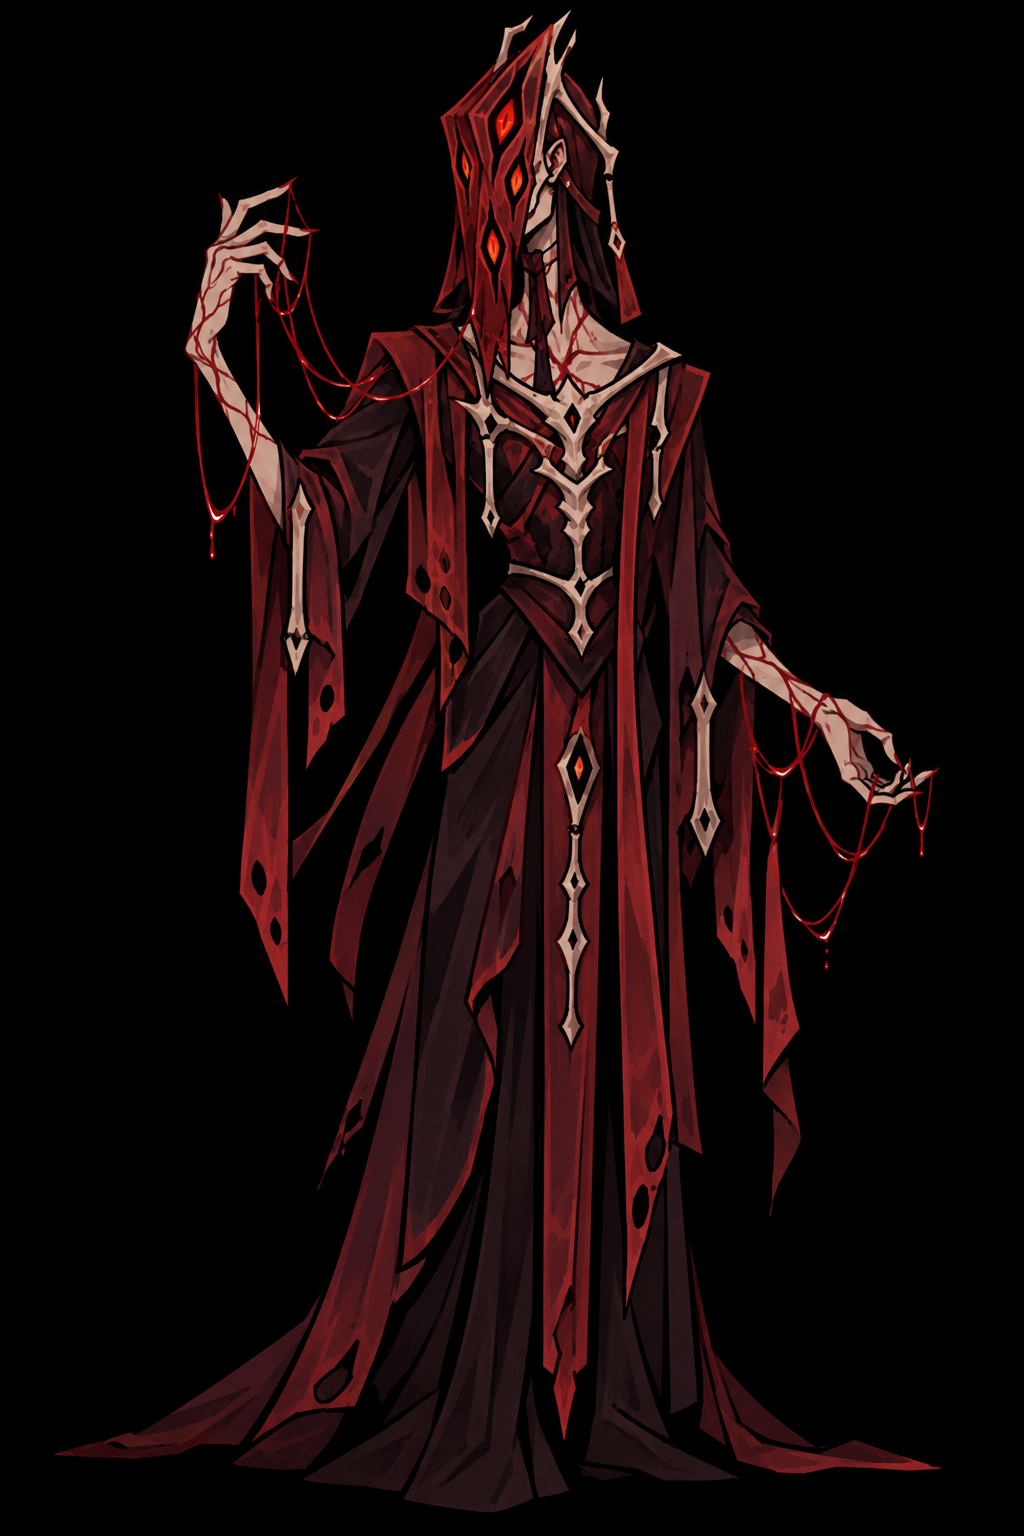
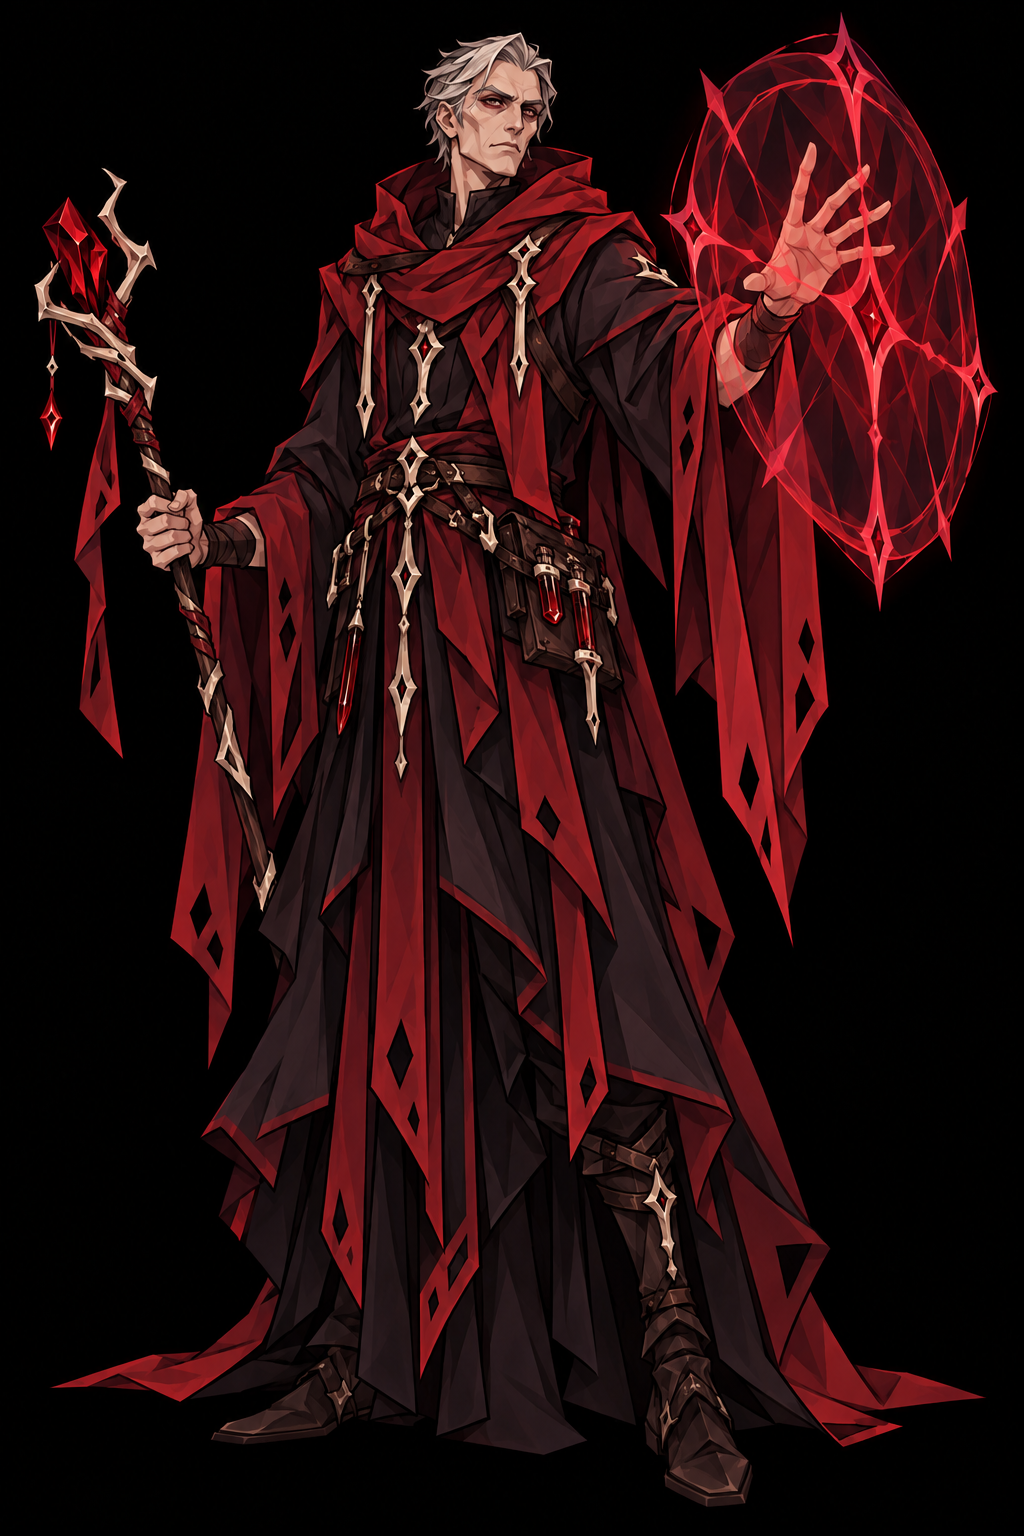
Restrict Ortes libraries, migrate folders and audit blood magic

diff --git a/scripts/blood-magic.js b/scripts/blood-magic.js
@@ -67,7 +67,7 @@ async function regain(actor,number=1){
 }
 async function steal(caster,target,amount=1,heal=0){
  if(!owned(caster)||!owned(target))throw Error("Для похищения ведущий должен иметь доступ к обоим актёрам");
- if(target.statuses.has("dead")||target.system.details?.type?.value==="undead")return 0;
+ if(target.statuses.has("dead")||["undead","construct"].includes(target.system.details?.type?.value))return 0;
  const pools=hdPools(target);
  let remaining=amount,stolen=0;
  for(const p of pools){const n=Math.min(remaining,Math.max(0,p.maximum-p.spent));if(n){await p.doc.update({[p.path]:p.spent+n});stolen+=n;remaining-=n;}}
@@ -179,7 +179,16 @@ function isBleeding(token){
  return Boolean(token?.actor?.effects?.some(e=>!e.disabled && e.getFlag?.(MOD,"bleeding") &&
    (!e.getFlag(MOD,"tokenUuid")||e.getFlag(MOD,"tokenUuid")===token.uuid)));
 }
-async function bloodAttackLifesteal(chat){
+const lifestealQueues = new Map();
+function bloodAttackLifesteal(chat){
+ const key=chat.getAssociatedActivity?.()?.item?.actor?.uuid;
+ if(!key)return Promise.resolve();
+ const result=(lifestealQueues.get(key)??Promise.resolve()).catch(()=>{}).then(()=>performBloodAttackLifesteal(chat));
+ lifestealQueues.set(key,result);
+ const clean=()=>{if(lifestealQueues.get(key)===result)lifestealQueues.delete(key);};
+ result.then(clean,clean);return result;
+}
+async function performBloodAttackLifesteal(chat){
  if(!game.user?.isGM || game.users?.activeGM?.id!==game.user.id || chat.type!=="attack")return;
  const activity=chat.getAssociatedActivity?.();
  if(activity?.type!=="attack")return;
@@ -196,6 +205,7 @@ async function bloodAttackLifesteal(chat){
  for(const t of targets.filter(t=>!t.isMiss)){
    const token=await fromUuid(t.token);
    if(!isBleeding(token))continue;
+   if(token.actor.statuses?.has('dead') || ['undead','construct'].includes(token.actor.system.details?.type?.value))continue;
    // Prevent double processing when chat hooks fire again.
    if(caster.getFlag(MOD,"lifestealTurn")===turnKey)return;
    await caster.setFlag(MOD,"lifestealTurn",turnKey);
@@ -218,16 +228,16 @@ async function bloodAttackLifesteal(chat){
 }
 
 async function autoBloodSaves(chat) {
- if(!game.user?.isGM || game.users?.activeGM?.id!==game.user.id)return;
+ if(!game.user?.isGM || game.users?.activeGM?.id!==game.user.id || chat.type!=="usage")return;
  const activity=chat.getAssociatedActivity?.();
  if(activity?.item?.getFlag?.(MOD,"spellKey"))return;
  if(activity?.type!=="save" || !activity.item?.getFlag?.(MOD,"bloodMagicAbility"))return;
- const targets=chat.system?.evaluatedTargets ?? [];
+ const targets=chat.system?.targets ?? [];
  if(!targets.length)return;
- const ability=activity.save?.ability?.[0];
+ const ability=Array.from(activity.save?.ability ?? [])[0];
  if(!ability)return;
  const caster=activity.item.actor;
- const dc=8 + 2*Number(caster?.system?.attributes?.prof??3)+Number(caster?.system?.abilities?.con?.mod??0);
+ const dc=Number(activity.save?.dc?.value ?? (8 + 2*Number(caster?.system?.attributes?.prof??3)+Number(caster?.system?.abilities?.con?.mod??0)));
  for(const target of targets){
    const token=await fromUuid(target.token);
    if(!token?.actor)continue;
@@ -237,7 +247,7 @@ async function autoBloodSaves(chat) {
    try {
      const result=await token.actor.rollSavingThrow(
        {ability,target:dc},{configure:false},
-       {data:{speaker:ChatMessage.getSpeaker({token})}}
+       {data:{speaker:ChatMessage.getSpeaker({token}),system:{...activity.messageSources,origin:chat.id},whisper:[...(chat.whisper??[])],blind:chat.blind}}
      );
      const total=result?.[0]?.total;
      await chat.setFlag(MOD,"bloodSaveResults."+key,{done:true,total});

diff --git a/RELEASE_NOTES.md b/RELEASE_NOTES.md
@@ -1,5 +1,13 @@
-# 4.1.1 — Портреты жителей Суйгу
+# 4.1.2 — Библиотеки ведущего и проверка магии крови
 
-Каждый из восьми жителей Суйгу получил отдельный арт с деталями своей профессии. Портреты назначены листам и изображениям прототипов токенов.
+Все семь компендиумов модуля закрыты для обычных и доверенных игроков. При входе активного ведущего права обновляются также в существующем мире; права помощника и ведущего сохраняются. Мировые копии предметов и заклинаний на листах игроков остаются доступны по своим собственным правам.
 
-Обновлённые NPC находятся в «Суйгу | Жители». Для существующих мировых копий импортируйте свежих NPC или выберите изображения из modules/bagrovoe-bleeding/assets/portraits/suigu/. Боевые данные не изменены.
+Однократная миграция раскладывает библиотеки внутри «Мир Ортес», переносит старую папку «Багровое Причастие», если она содержит только библиотеки модуля. Посторонние библиотеки и их настройки не изменяются. Папки с чужим содержимым сохраняются.
+
+Маг крови [Бафф-Дебафф] получил новый отдельный арт и прозрачный портретный токен. Файлы заменены по прежним путям, поэтому обычные мировые копии также увидят новые изображения после обновления кеша.
+
+Проверены 14 багровых NPC, 18 заклинаний, все семь нативных компендиумов и пути к ресурсам. Исправлено чтение Set характеристик спасброска у старых кровавых способностей; броски связываются с исходной карточкой. Кровавое поглощение защищено от повторного одновременного срабатывания и не срабатывает на мёртвых, нежити и конструктах.
+
+Похищение одной доступной Кости Хитов поддерживает классовые кости персонажей и счётчик NPC. Условие: заражённый маг ПО 7+, попадание атакой с признаком магии крови по уже кровоточащей живой цели, провал спасброска Телосложения. Один раз за ход. Маги из комплекта имеют ПО 6, а атаки Древнего не включают эту возможность. Новые способности похищения никому не добавлены, баланс не менялся.
+
+124 автоматические проверки пройдены, включая промах, успешный спасбросок, исчерпанные кости и повторные вызовы. Проверка в запущенном игровом мире Foundry не проводилась; перемещение, выбор целей, применение обычного урона и описательные способности используют стандартный игровой процесс ведущего.

diff --git a/CHANGELOG.md b/CHANGELOG.md
@@ -1,3 +1,17 @@
+# 4.1.2 — Библиотеки ведущего и проверка магии крови
+
+Все семь компендиумов модуля закрыты для обычных и доверенных игроков. При входе активного ведущего права обновляются также в существующем мире; права помощника и ведущего сохраняются. Мировые копии предметов и заклинаний на листах игроков остаются доступны по своим собственным правам.
+
+Однократная миграция раскладывает библиотеки внутри «Мир Ортес», переносит старую папку «Багровое Причастие», если она содержит только библиотеки модуля. Посторонние библиотеки и их настройки не изменяются. Папки с чужим содержимым сохраняются.
+
+Маг крови [Бафф-Дебафф] получил новый отдельный арт и прозрачный портретный токен. Файлы заменены по прежним путям, поэтому обычные мировые копии также увидят новые изображения после обновления кеша.
+
+Проверены 14 багровых NPC, 18 заклинаний, все семь нативных компендиумов и пути к ресурсам. Исправлено чтение Set характеристик спасброска у старых кровавых способностей; броски связываются с исходной карточкой. Кровавое поглощение защищено от повторного одновременного срабатывания и не срабатывает на мёртвых, нежити и конструктах.
+
+Похищение одной доступной Кости Хитов поддерживает классовые кости персонажей и счётчик NPC. Условие: заражённый маг ПО 7+, попадание атакой с признаком магии крови по уже кровоточащей живой цели, провал спасброска Телосложения. Один раз за ход. Маги из комплекта имеют ПО 6, а атаки Древнего не включают эту возможность. Новые способности похищения никому не добавлены, баланс не менялся.
+
+124 автоматические проверки пройдены, включая промах, успешный спасбросок, исчерпанные кости и повторные вызовы. Проверка в запущенном игровом мире Foundry не проводилась; перемещение, выбор целей, применение обычного урона и описательные способности используют стандартный игровой процесс ведущего.
+
 # 4.1.1 — Портреты жителей Суйгу
 
 Каждый из восьми жителей Суйгу получил отдельный арт с деталями своей профессии. Портреты назначены листам и изображениям прототипов токенов.

diff --git a/ART_PROMPTS_BLOOD_MAGE.md b/ART_PROMPTS_BLOOD_MAGE.md
@@ -1,0 +1,13 @@
+# Маг крови поддержки — 4.1.2
+
+Создано встроенным image_gen. Референс стиля: assets/portraits/krovotvorec.png.
+
+## Портрет
+Файл: assets/portraits/mag-krovi-support.png
+
+Use case: stylized-concept. Create a new full-body dark fantasy blood support mage illustration, matching the sharp inked angular cel-painted art style and burgundy, ivory and black palette of the reference. Reference is style only: make a distinctly different character and silhouette from this tall masked puppeteer. New character: older pale male occult physician, visible stern face, short silver hair, deep red hood lowered around shoulders, layered charcoal and oxblood traveling robes with simple bone fasteners, no tall mask or crown. Holds a short crooked ritual staff with a small red crystal in one hand, other hand projects a clearly shaped translucent crimson protective ward. Three-quarter upright pose, head straight, closed mouth. Full figure including boots, readable face, sparse dark background, no writing, no extra people. Detailed but clean dark fantasy bestiary character art, not photorealistic.
+
+## Токен
+Файл: assets/tokens/mag-krovi-support.png. Референс: новый портрет. Прозрачный фон.
+
+Use case: identity-preserve. Make one square VTT portrait token from this exact silver-haired male blood mage. Preserve face, silver hair, red scarf and charcoal robes, sharp angular illustrated style. Close head and shoulders, face large and centered, include a little crimson ward glow. Simple thin dark crimson circular frame with restrained ivory edging. Head can overlap upper rim slightly. Entire outside of circle must be genuinely transparent, no square backdrop, no writing, no extra ornament. Only one token.

diff --git a/FOLDERS.md b/FOLDERS.md
@@ -33,3 +33,9 @@
 ## Суйгу — 4.1.0
 
 В корне «Мир Ортес» добавлен раздел «Суйгу» с компендиумом «Суйгу | Жители». Внутри: Квартал Белых Листьев, Лесной Предел, Поля Аравэна, Фиолетовый Переплёт и Голубой корень. Восемь гражданских NPC импортируются отдельно от бестиария и банды.
+
+## Обновление 4.1.2
+
+При первом входе ведущего библиотеки модуля переносятся в структуру «Мир Ортес». Старые папки с чужими библиотеками не удаляются. Права PLAYER и TRUSTED закрываются при каждом запуске мира ведущим; выдавайте игрокам отдельные мировые копии нужных предметов и заклинаний.
+
+Используются штатные методы Foundry V14: https://foundryvtt.com/api/v14/classes/foundry.documents.collections.CompendiumCollection.html (configure, setFolder).

diff --git a/README.md b/README.md
@@ -1,3 +1,7 @@
+# Мир Ортес — 4.1.2
+
+Библиотеки закрыты для игроков, папки существующего мира обновляются при входе ведущего. Новый арт мага поддержки и исправления кровавых способностей. [Подробности](RELEASE_NOTES.md).
+
 # Мир Ортес — 4.1.1
 
 Все восемь жителей Суйгу получили индивидуальные портреты.
